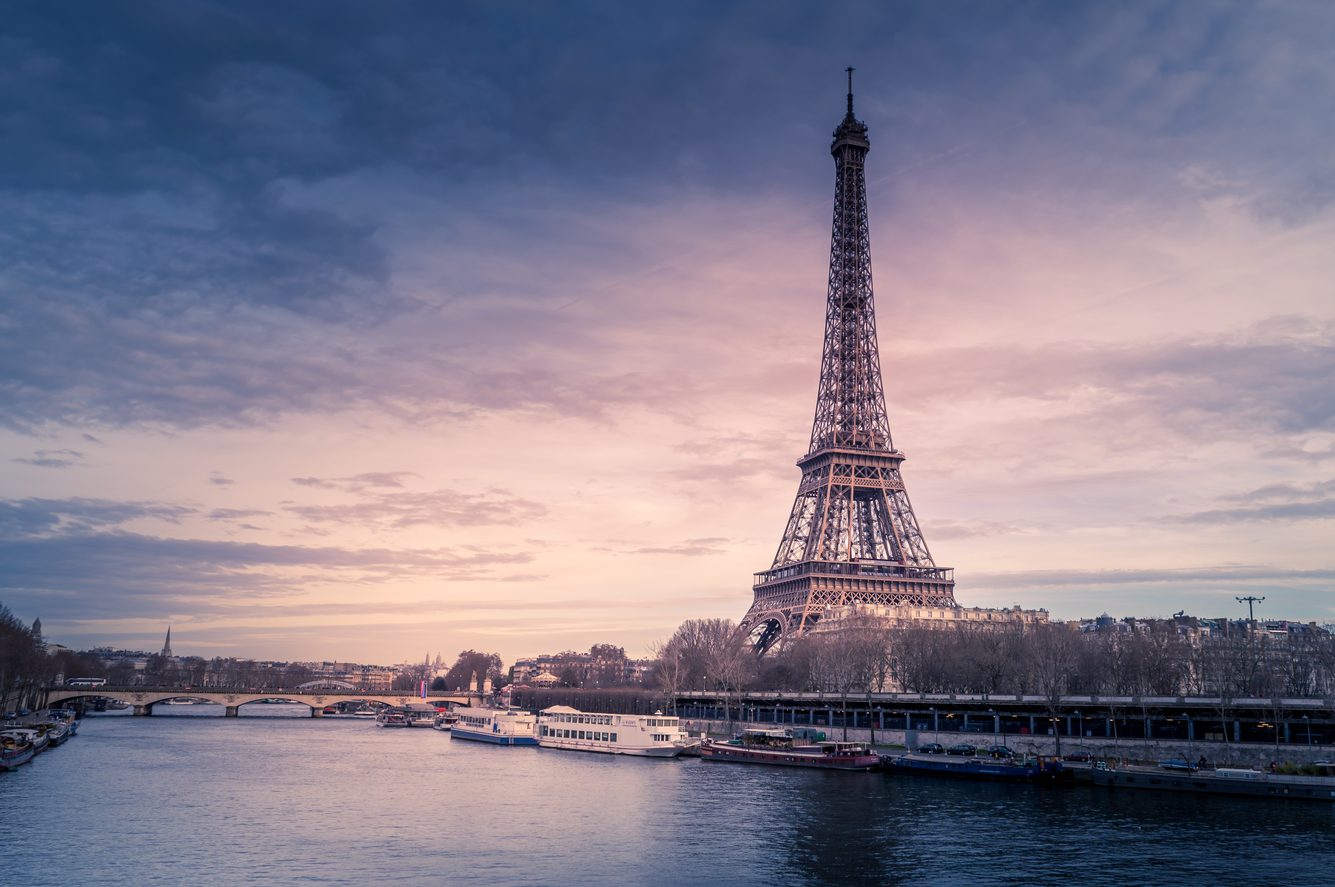
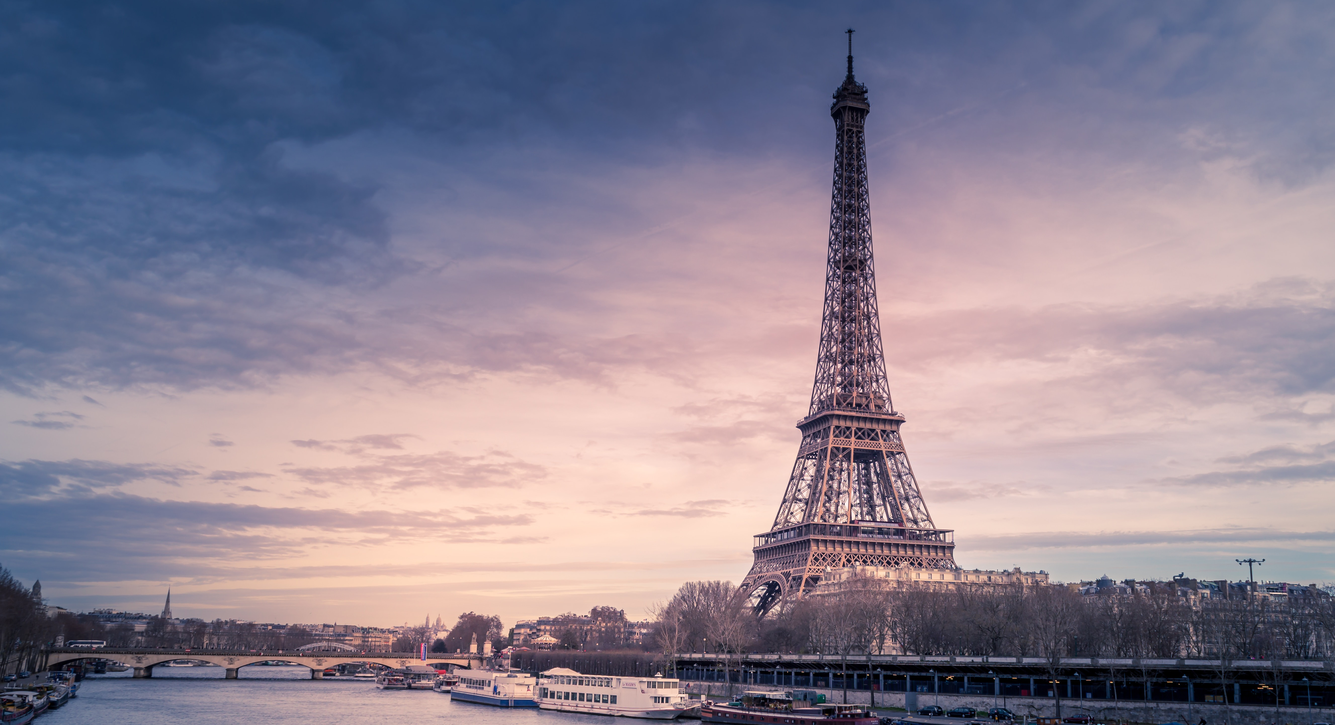
the end project airbnb

diff --git a/htmlcss-airbnb.css b/htmlcss-airbnb.css
@@ -1,45 +1,53 @@
-.container {
-  background-size: 100% 100%;
+#container1 {
   width: 100vw;
   height: 100vh;
+  background-size: cover;
   background-image: url(jpg/napoli.jpg);
   position: relative;
 }
-.container2 {
-  background-size: 100% 100%;
+
+#container2 {
   width: 100vw;
   height: 100vh;
+  background-size: cover;
   background-image: url(jpg/newyork.jpg);
   position: relative;
 }
-.container3 {
-  background-size: 100% 100%;
+
+#container3 {
   width: 100vw;
   height: 100vh;
+  background-size: cover;
   background-image: url(jpg/parigi.jpg);
   position: relative;
 }
 
-.layover {
+#layover {
+  top: 0;
+  left: 0;
   width: 100%;
   height: 100%;
-  background-color: rgba(232, 232, 232, 0.48);
-}
-
-.titolo {
-  top: 50%;
-  left:50%;
-  width: 100%;
-  height: 100%;
-  font-size: 30px;
-  font-style: italic;
-  text-align: center;
+  background-color: rgba(227, 231, 227, 0.44);
   position: absolute;
 }
 
+.titolo {
+  text-align: center;
+  position: absolute;
+  top: 50%;
+  left: 40%;
+  /* height: 100vh; */
+  color: rgba(0, 0, 0, 0.53);
+  font-size: 70pt;
+  font-style: normal;
+  padding: 4px;
+  border-radius: 15px;
+}
 
 * {
   margin: 0;
   padding: 0;
   box-sizing: border-box;
+  border: solid black 2px;
+
 }

diff --git a/htmlcss-airbnb.html b/htmlcss-airbnb.html
@@ -8,35 +8,35 @@
 
   <body>
     <!-- 1° blocco immagine-->
-    <section>
-      <div class="container">
-        <div class="layover">
-          <div class="titolo">
-          <span>Napoli</span>
+    <main>
+      <div id="container1">
+        <div id="layover">
+          <section>
+            <div class="titolo">
+            Napoli
+          </section>
           </div>
         </div>
-      </div>
-    </section>
+    </main>
 <!-- 2° blocco immagine -->
-    <section>
-      <div class="container2">
-        <div class="layover">
+    <main>
+      <div id="container2">
+        <div id="layover">
           <div class="titolo">
-          <span>New York</span>
+            New York
           </div>
         </div>
       </div>
-    </section>
+    </main>
     <!-- 3° blocco immagine -->
-    <section>
-      <div class="container3">
-        <div class="layover">
+    <main>
+      <div id="container3">
+        <div id="layover">
           <div class="titolo">
-          <span>Parigi</span>
+            Parigi
           </div>
         </div>
       </div>
-    </section>
-
+    </main>
   </body>
 </html>
